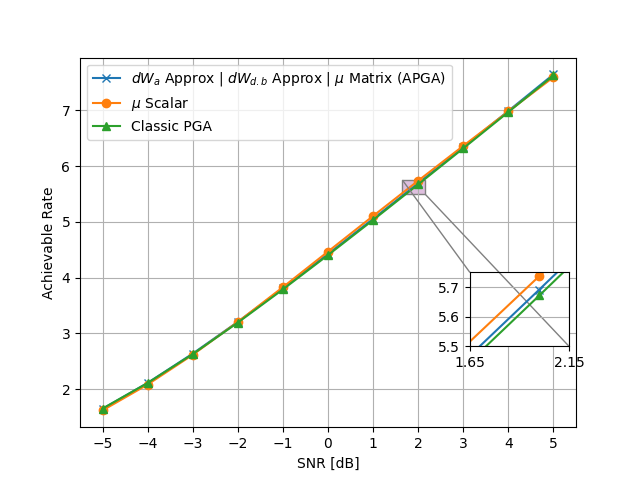
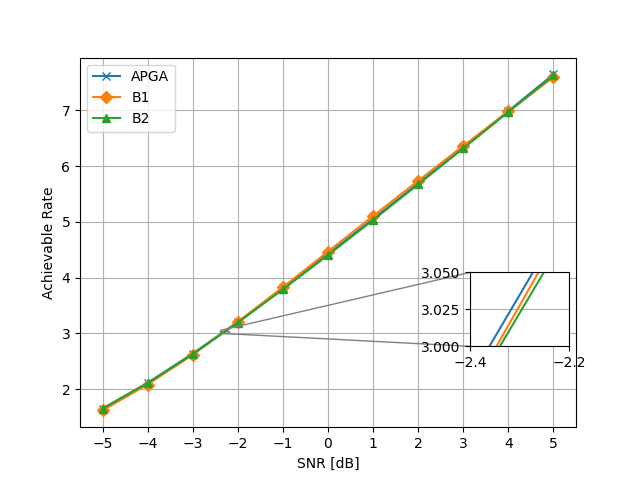
fix plots

diff --git a/plots.py b/plots.py
@@ -28,9 +28,9 @@ def create_plot_data(dataset_path):
         config.L = 12
         # Large Scale init Wa with V log2
         model_list = {
-            r"$dW_a$ Approx | $dW_{d.b}$ Approx | $\mu$ Matrix (APGA)" : {'marker':'x','label':r"$dW_a$ Approx | $dW_{d.b}$ Approx | $\mu$ Matrix (APGA)",'path': 'Important_runs/log2/mu_matrix/QUAD_SET__64B__12N__32M__12L/D01_M08_h14_m49__K_5__loss_one_iter__WaConst_True__dWaOnes_True__Q_64__dWdApprox_1_3/PGA_model.pth'},
-            r"$\mu$ Scalar" : {'marker':'o','label':r"$\mu$ Scalar",'path': 'Important_runs/log2/mu_scalar/QUAD_SET__64B__12N__32M__12L/D01_M08_h15_m36__K_5__loss_one_iter__WaConst_True__dWaOnes_False__Q_64__dWdApprox_False/PGA_model.pth'},
-            r"Classic PGA" : {'marker':'^','label':r"Classic PGA",'path': '','num_iter':100},
+            r"$dW_a$ Approx | $dW_{d.b}$ Approx | $\mu$ Matrix (APGA)" : {'marker':'x','label':r"APGA",'path': 'Important_runs/log2/mu_matrix/QUAD_SET__64B__12N__32M__12L/D01_M08_h14_m49__K_5__loss_one_iter__WaConst_True__dWaOnes_True__Q_64__dWdApprox_1_3/PGA_model.pth'},
+            r"$\mu$ Scalar" : {'marker':'D','label':r"B1",'path': 'Important_runs/log2/mu_scalar/QUAD_SET__64B__12N__32M__12L/D01_M08_h15_m36__K_5__loss_one_iter__WaConst_True__dWaOnes_False__Q_64__dWdApprox_False/PGA_model.pth'},
+            r"Classic PGA" : {'marker':'^','label':r"B2",'path': '','num_iter':100},
             "plot_data": {'saved_data_path': os.path.join('plots_data','large_scale_data_initWa_V_log2_train.json'),'enable_zoom' : True,
             'start_snr':-5,'end_snr':5,'zoomed_in_start_snr':2,'zoomed_in_end_snr':4,
             'zoomed_in_min_rate' : 4,'zoomed_in_max_rate' :5}
@@ -42,13 +42,13 @@ def create_plot_data(dataset_path):
 
         #Small Scale init Wa with V log2
         model_list = {
-            r"$dW_a$ Approx | $dW_{d.b}$ Approx | $\mu$ Matrix (APGA)" : {'marker':'x','label':r"$dW_a$ Approx | $dW_{d.b}$ Approx | $\mu$ Matrix (APGA)", 'path': 'Important_runs/log2/mu_matrix/QUAD_SET__8B__6N__12M__10L/D02_M08_h14_m32__K_5__loss_one_iter__WaConst_True__dWaOnes_True__Q_8__dWdApprox_1_3/PGA_model.pth'},
-            r"$dW_a$ Approx | $\mu$ Matrix" :{'marker':'*','label':r"$dW_a$ Approx | $\mu$ Matrix",'path': 'Important_runs/log2/mu_matrix/QUAD_SET__8B__6N__12M__10L/D02_M08_h18_m57__K_5__loss_one_iter__WaConst_True__dWaOnes_True__Q_8__dWdApprox_False/PGA_model.pth'},
-            r"$\mu$ Matrix":{'marker':'o','label': r"$\mu$ Matrix",'path': 'Important_runs/log2/mu_matrix/QUAD_SET__8B__6N__12M__10L/D02_M08_h15_m46__K_5__loss_one_iter__WaConst_True__dWaOnes_False__Q_8__dWdApprox_False/PGA_model.pth'},
-            r"$dW_a$ Approx | $dW_{d.b}$ Approx | $\mu$ Scalar":{'marker':',','label':r"$dW_a$ Approx | $dW_{d.b}$ Approx | $\mu$ Scalar",'path': 'Important_runs/log2/mu_scalar/QUAD_SET__8B__6N__12M__10L/D02_M08_h16_m47__K_5__loss_one_iter__WaConst_True__dWaOnes_True__Q_8__dWdApprox_1_3/PGA_model.pth'},
-            r"$dW_a$ Approx | $\mu$ Scalar" :{'marker':'+','label':r"$dW_a$ Approx | $\mu$ Scalar",'path': 'Important_runs/log2/mu_scalar/QUAD_SET__8B__6N__12M__10L/D02_M08_h19_m41__K_5__loss_one_iter__WaConst_True__dWaOnes_True__Q_8__dWdApprox_False/PGA_model.pth'},
-            r"$\mu$ Scalar": {'marker':'o','label':r"$\mu$ Scalar",'path': 'Important_runs/log2/mu_scalar/QUAD_SET__8B__6N__12M__10L/D02_M08_h17_m22__K_5__loss_one_iter__WaConst_True__dWaOnes_False__Q_8__dWdApprox_False/PGA_model.pth'},
-            r"Classic PGA" : {'marker':'^','label':r"Classic PGA",'path': '','num_iter':100},
+            r"$dW_a$ Approx | $dW_{d.b}$ Approx | $\mu$ Matrix (APGA)" : {'marker':'x','label':r"APGA", 'path': 'Important_runs/log2/mu_matrix/QUAD_SET__8B__6N__12M__10L/D02_M08_h14_m32__K_5__loss_one_iter__WaConst_True__dWaOnes_True__Q_8__dWdApprox_1_3/PGA_model.pth'},
+            r"$\mu$ Scalar": {'marker':'D','label':r"B1",'path': 'Important_runs/log2/mu_scalar/QUAD_SET__8B__6N__12M__10L/D02_M08_h17_m22__K_5__loss_one_iter__WaConst_True__dWaOnes_False__Q_8__dWdApprox_False/PGA_model.pth'},
+            r"Classic PGA" : {'marker':'^','label':r"B2",'path': '','num_iter':100},
+            r"$dW_a$ Approx | $\mu$ Matrix" :{'marker':'*','label':r"V1",'path': 'Important_runs/log2/mu_matrix/QUAD_SET__8B__6N__12M__10L/D02_M08_h18_m57__K_5__loss_one_iter__WaConst_True__dWaOnes_True__Q_8__dWdApprox_False/PGA_model.pth'},
+            r"$\mu$ Matrix":{'marker':'o','label': r"V2",'path': 'Important_runs/log2/mu_matrix/QUAD_SET__8B__6N__12M__10L/D02_M08_h15_m46__K_5__loss_one_iter__WaConst_True__dWaOnes_False__Q_8__dWdApprox_False/PGA_model.pth'},
+            r"$dW_a$ Approx | $dW_{d.b}$ Approx | $\mu$ Scalar":{'marker':'>','label':r"V3",'path': 'Important_runs/log2/mu_scalar/QUAD_SET__8B__6N__12M__10L/D02_M08_h16_m47__K_5__loss_one_iter__WaConst_True__dWaOnes_True__Q_8__dWdApprox_1_3/PGA_model.pth'},
+            r"$dW_a$ Approx | $\mu$ Scalar" :{'marker':'+','label':r"V4",'path': 'Important_runs/log2/mu_scalar/QUAD_SET__8B__6N__12M__10L/D02_M08_h19_m41__K_5__loss_one_iter__WaConst_True__dWaOnes_True__Q_8__dWdApprox_False/PGA_model.pth'},
             "plot_data": {'saved_data_path': os.path.join('plots_data','small_scale_data_initWa_V_log2_train.json'),'enable_zoom' : True,
                         'start_snr':-5,'end_snr':5,'zoomed_in_start_snr':2,'zoomed_in_end_snr':4,
                         'zoomed_in_min_rate' : 4,'zoomed_in_max_rate' :5}
@@ -115,10 +115,10 @@ if __name__ == '__main__':
     dataset_path = 'H_2400Channels_64B_32M_12N.mat' # H_2400Channels_64B_32M_12N H_1200Channels_8B_12M_6N
 
     plot_data = create_plot_data(dataset_path)
-    # plot_data['zoomed_in_start_snr'] = 1.65
-    # plot_data['zoomed_in_end_snr'] = 2.15
-    # plot_data['zoomed_in_min_rate'] = 5.5
-    # plot_data['zoomed_in_max_rate'] = 5.75
+    # plot_data['zoomed_in_start_snr'] = -2.4
+    # plot_data['zoomed_in_end_snr'] = -2.2
+    # plot_data['zoomed_in_min_rate'] = 3
+    # plot_data['zoomed_in_max_rate'] = 3.05
 
     fig, ax = plt.subplots()
     inset_ax = inset_axes(ax, width="20%", height="20%", loc='lower right',bbox_to_anchor=(0, 0.2, 1, 1), bbox_transform=ax.transAxes)
@@ -142,7 +142,7 @@ if __name__ == '__main__':
         inset_ax.set_xlim(plot_data['zoomed_in_start_snr'],plot_data['zoomed_in_end_snr'])
         inset_ax.set_xticks([plot_data['zoomed_in_start_snr'],plot_data['zoomed_in_end_snr']])
         inset_ax.set_ylim(plot_data['zoomed_in_min_rate'], plot_data['zoomed_in_max_rate'])
-        mark_inset(ax, inset_ax, loc1=2, loc2=4, fc=(0.75, 0.5, 0.75, 0.5), ec="0.5")
+        mark_inset(ax, inset_ax, loc1=2, loc2=3, fc=(0.75, 0.5, 0.75, 0.5), ec="0.5")
         inset_ax.grid()
 
     # with open(plot_data['saved_data_path'], 'wb') as file:
